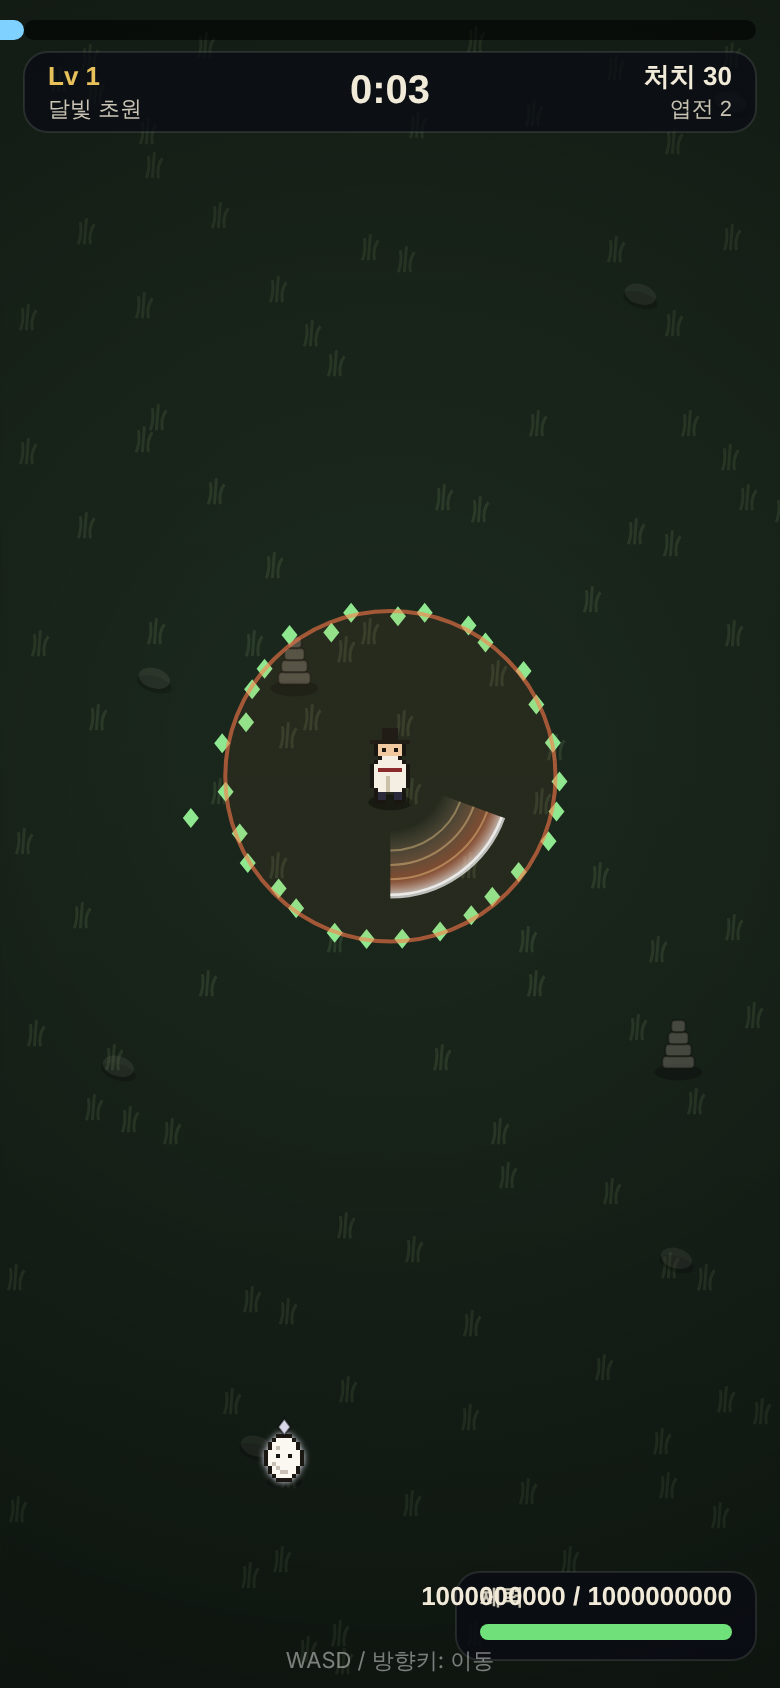
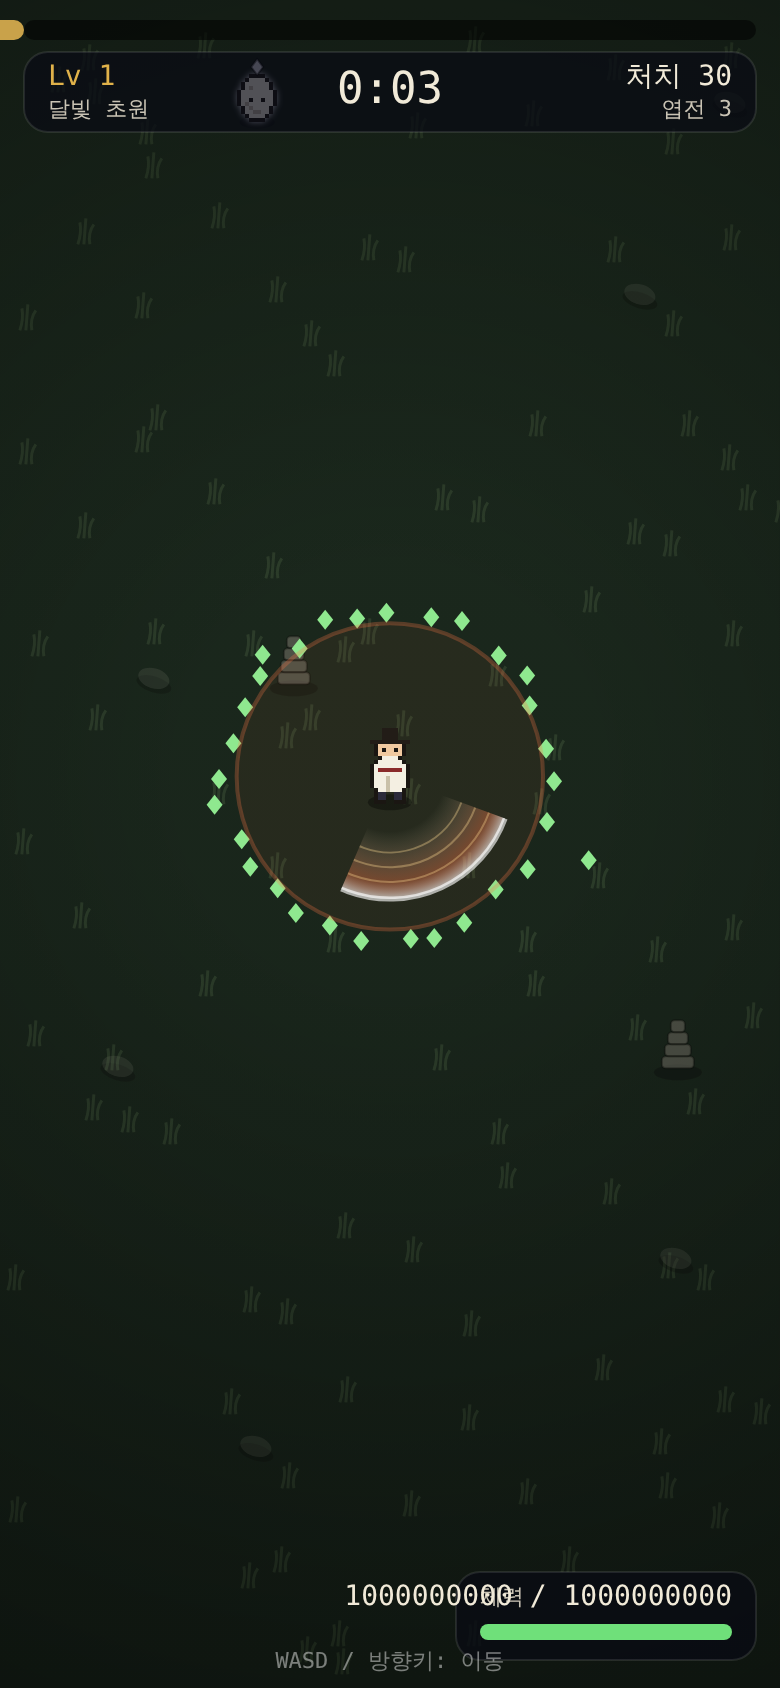
밤의 퇴마사 v13: UI 아트 디렉션 한지·민화·부적 (한지 패널·단청 팔레트·명조/픽셀 글꼴·낙관 버튼·이모지 제거)
Claude-Session: https://claude.ai/code/session_01RmJvEQYZMU41pMZMsu4AKq

diff --git a/docs/04-night-exorcist/design.md b/docs/04-night-exorcist/design.md
@@ -169,3 +169,11 @@ challenge(n) = 1 + 0.975·(1 − 0.86^n)     (밤 단계)
 - 메인에 재화 쓸 곳이 없음 → 사당 노출을 런 2회 → **런 1회**로. (첫 런에 초원을 깨는 사람이 있다)
 - 사당 뽑기 연출: **부적 항아리**(흔들림 → 복주머니 캡슐이 튀어나와 깨지며 무기 아이콘·속성 빛) ×1 중앙 크게, ×10 2줄×5, ×100 은 10개 연출 + 요약. 탭하면 건너뛰기. 테스트 모드에선 즉시 결과
 - 스크린샷에 스테이지 3개·난이도 줄 없음 = 옛 빌드 캐시 → 새로고침 안내
+
+## 19. v13 — UI 아트 디렉션 「한지·민화·부적」 (10/04)
+호원: "UI가 AI 제작물스럽지 않게." 진단: 둥근 반투명 검정 패널 + 노란 알약 버튼 + 시스템 산세리프 + 이모지 + 전부 중앙 정렬 = 생성 UI 기본값.
+- 패널 = 한지(종이색 + feTurbulence 섬유 노이즈 + clip-path 찢긴 가장자리), 등장은 scaleY 로 펼쳐짐
+- 팔레트 = 단청: 주칠 #b5392f(강조 하나만), 먹 #1c1a17, 황토 #c9a24a(XP·HUD), 쪽빛 #2b4c7e. 패널 위 속성색은 진한 버전으로 별도 지정
+- 글꼴 = 제목 Song Myung, 본문 Gowun Batang(구글), HUD·숫자 Galmuri(jsdelivr) — 전부 외부 로드, 실패 시 serif/monospace 폴백
+- 버튼 = 주 버튼은 낙관(붉은 인장, −0.8° 기울임, 누르면 찍힘), 보조는 먹선, 탭은 붉은 밑줄. 이모지 전부 제거(봉인 배지·낙관 점·순위 숫자)
+- 샌드박스는 구글 폰트·jsdelivr 가 막혀 스크린샷은 폴백 글꼴. 실기기에서 확인 필요
